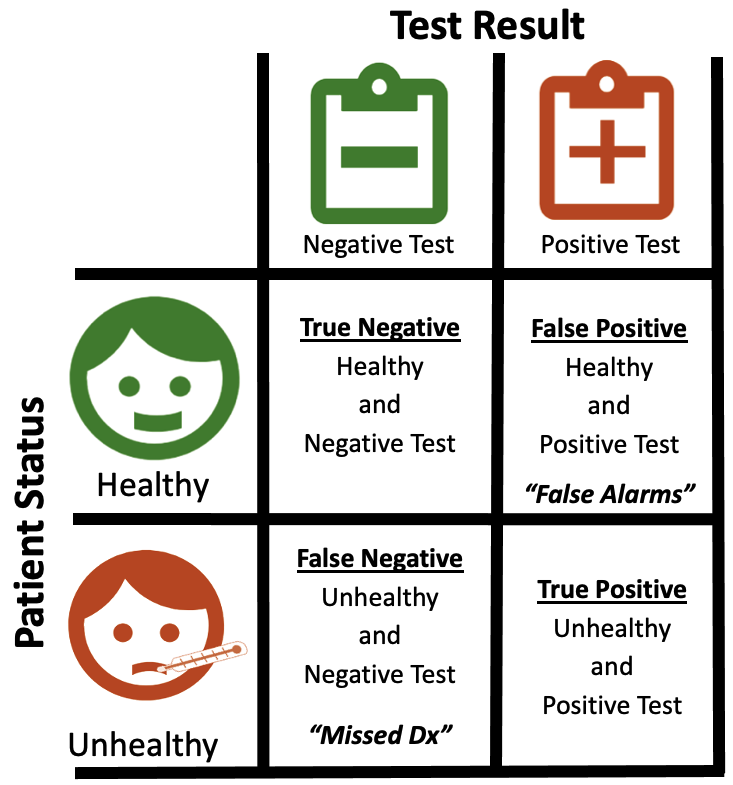
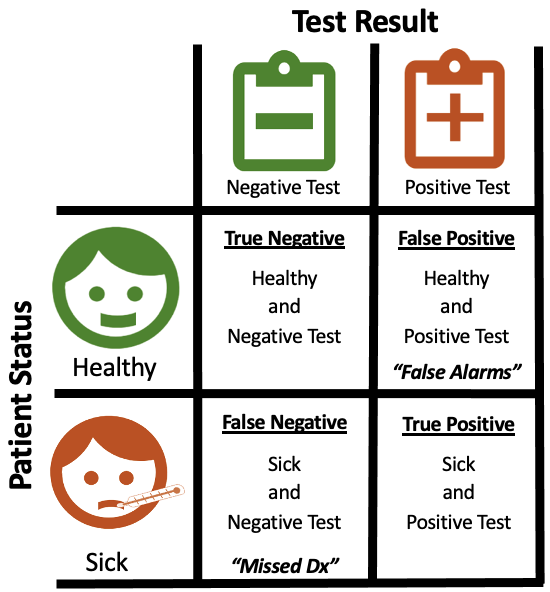
Conf Matrix work

diff --git a/jQ1_ConfusionMatrix.html b/jQ1_ConfusionMatrix.html
@@ -58,31 +58,33 @@
             <div class="col-md-5">
                 <h3>Introduction</h3>
                 <p style="text-align: justify;">The confusion matrix is a handy data visualization tool that allows
-                    doctors to quickly understand
-                    the accuracy of a medical test. It summarizes how often the test correctly identifies healthy
-                    and
-                    sick patients in a group. As such, it is invaluable for conveying how accurate a test is, and
-                    how confident the doctor can be in the test's result. </p>
-                <p style="text-align: justify;">
-                    Imagine you are an engineer, trying to develop a test that can correctly identify patients that
-                    have a disease.
-
-                    In the image to the right, we see an example of a simple confusion matrix that shows the four
-                    different outcomes in a patient population. In the rows, we see different types of patients
-                    (Healthy and Sick), and in the columns, we see the test results (a Negative Test indicates that
-                    the test believes the patient is Healthy, while a Positive Test indicates that the test believes
-                    the patient
-                    is Sick). Pretty simple right?
+                    doctors to quickly understand the accuracy of a medical test. It summarizes how often the test
+                    correctly identifies healthy and sick patients in a group. As such, it is invaluable for conveying
+                    how accurate a test is, and how confident the doctor can be in the test's result. </p>
+                <p style="text-align: justify;">Imagine you are an engineer, trying to develop a test that can
+                    correctly identify patients that have a disease. In the image to the right, we see an example of a
+                    simple confusion matrix that shows the four different outcomes in a patient population. In the rows,
+                    we see different types of patients (Healthy and Sick), and in the columns, we see the test results
+                    (a Negative Test indicates that the test believes the patient is Healthy, while a Positive Test
+                    indicates that the test believes the patient is Sick). Pretty simple right?
                 </p>
+                <p style="text-align: justify;">As an engineer, we have to describe exactly how often the test is
+                    correct in its diagnoses. The problem is, there are many different ways that a diagnostic test can
+                    be right, and there are just as many ways that it can be wrong. The Confusion Matrix allows us to
+                    quickly articulate the relative strenghts and weaknesses of a test in a multitude of scenarios. In
+                    the sections to follow, we'll walk through the main pieces of a the confusion matrix and show
+                    exactly how handy it can be!
+                </p>
+
 
             </div>
             <div class="col-md-7 d-flex align-text-top">
                 <div class="row d-flex justify-content-center">
                     <div class="col-md-12 d-flex justify-content-center align-items-start" height="30%">
-                        <img src="img/ConfMatrix.png" alt="" width="70%" style="object-fit: contain;">
+                        <img src="img/ConfMatrix.png" alt="" width="60%" style="object-fit: contain;">
 
                     </div>
-                    <div class="col-md-12">
+                    <div class="col-md-12 pt-4">
                         <h3>Terminology and Definitions</h3>
 
                         <p>

diff --git a/jAboutMe.html b/jAboutMe.html
@@ -96,12 +96,10 @@
                         <a href="https://www.bizjournals.com/pittsburgh/news/2022/03/11/all-30-under-30-2022.html">
                             Announcements of the Pittsburgh Business Times' 2022 30 Under 30 winners
                         </a>
-                    </li>
-                    <li>
-                        <strong>03/08/2022 -</strong>
+                        with
                         <a
                             href="https://www.bizjournals.com/pittsburgh/news/2022/03/08/meet-the-first-group-of-30-under-30-winners.html">
-                            Meet the first group of Pittsburgh Business Times' 2022 30 Under 30 winners
+                            (Duplicate Coverage)
                         </a>
                     </li>
                     <li>
